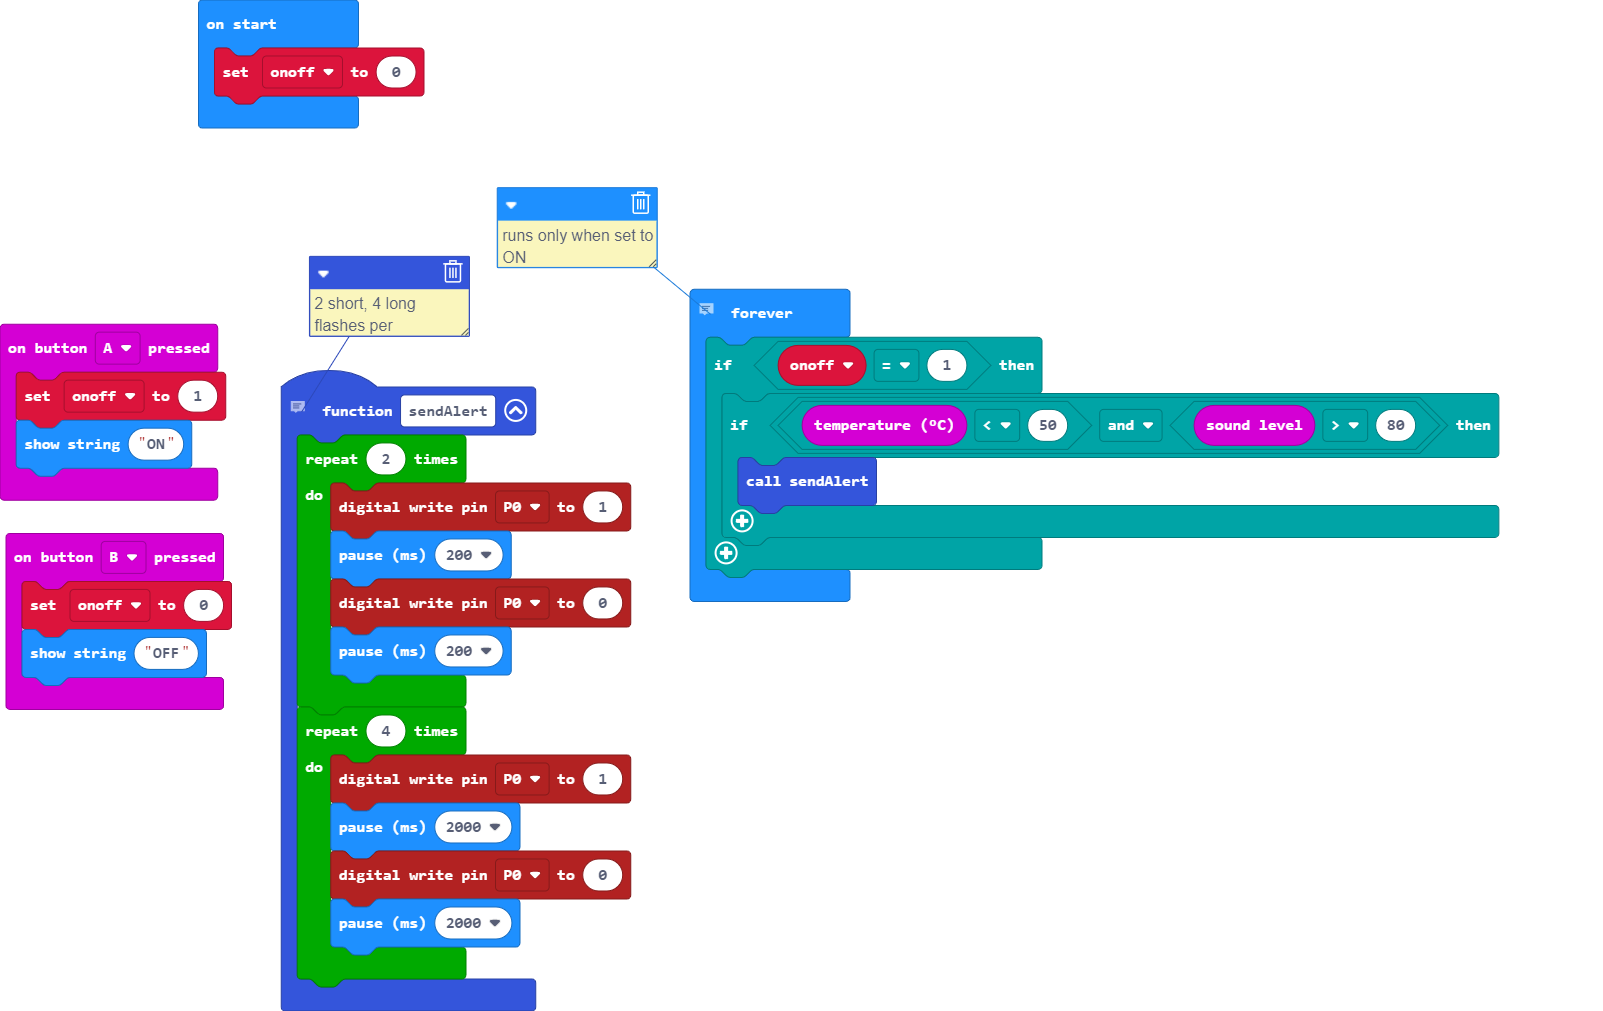
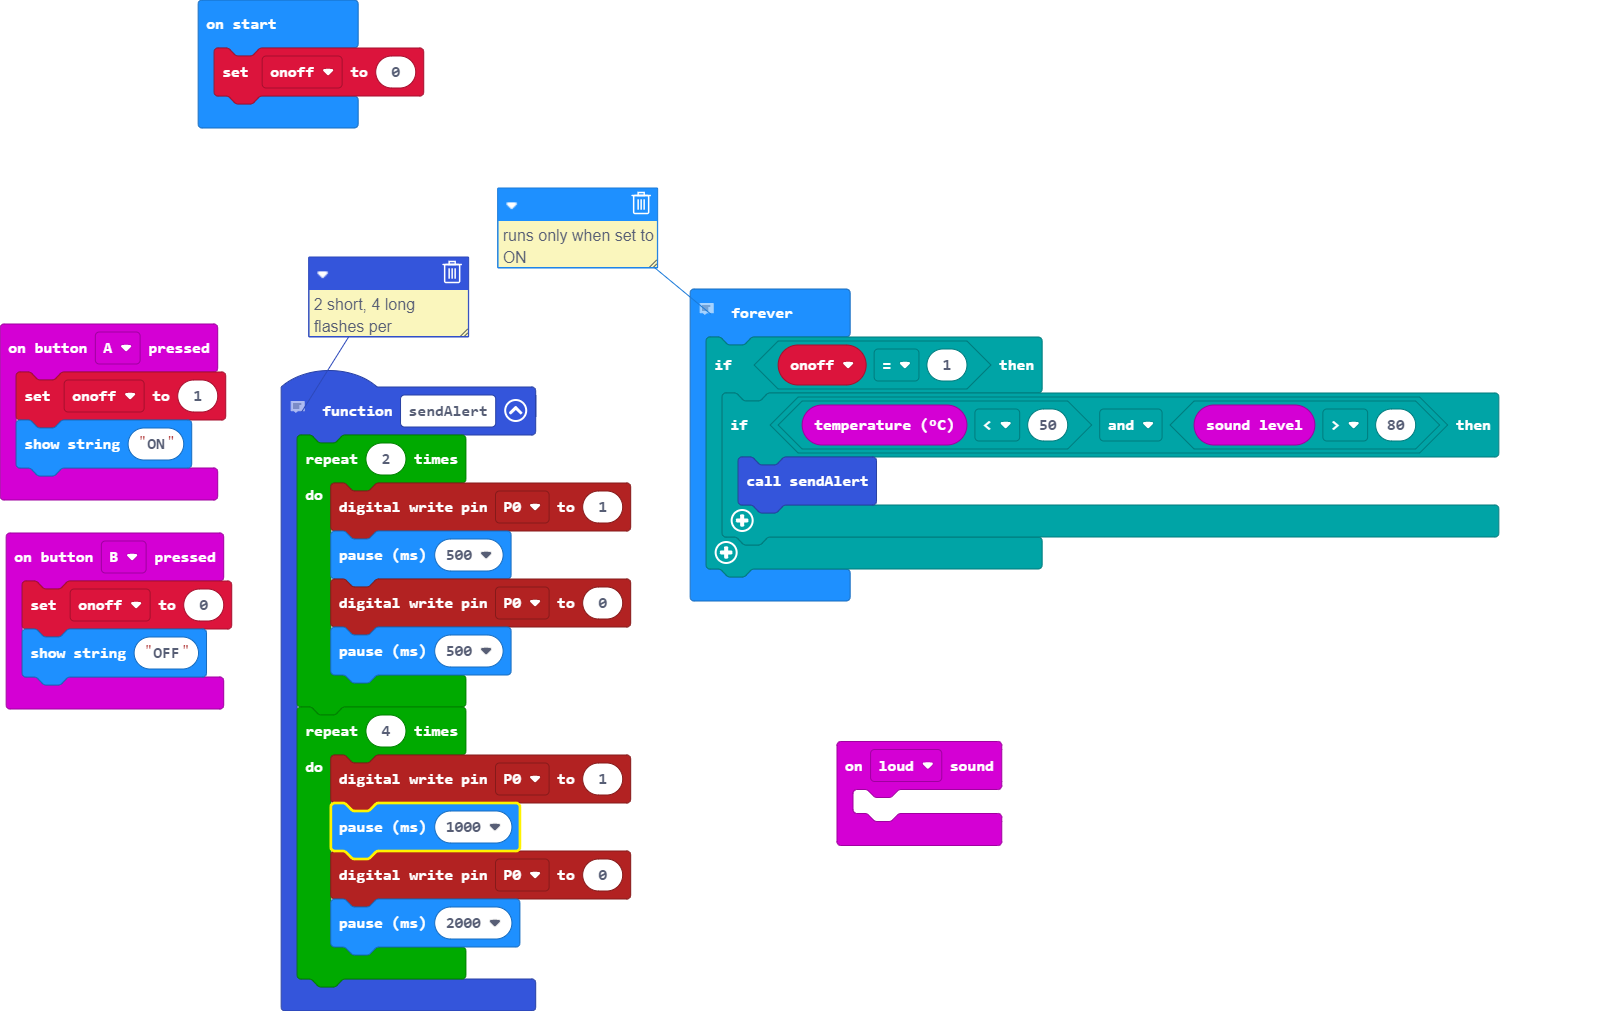
Update main.blocks, main.ts

diff --git a/main.ts b/main.ts
@@ -2,13 +2,13 @@
 function sendAlert () {
     for (let index = 0; index < 2; index++) {
         pins.digitalWritePin(DigitalPin.P0, 1)
-        basic.pause(200)
+        basic.pause(500)
         pins.digitalWritePin(DigitalPin.P0, 0)
-        basic.pause(200)
+        basic.pause(500)
     }
     for (let index = 0; index < 4; index++) {
         pins.digitalWritePin(DigitalPin.P0, 1)
-        basic.pause(2000)
+        basic.pause(1000)
         pins.digitalWritePin(DigitalPin.P0, 0)
         basic.pause(2000)
     }
@@ -16,6 +16,9 @@ function sendAlert () {
 input.onButtonPressed(Button.A, function () {
     onoff = 1
     basic.showString("ON")
+})
+input.onSound(DetectedSound.Loud, function () {
+	
 })
 input.onButtonPressed(Button.B, function () {
     onoff = 0
